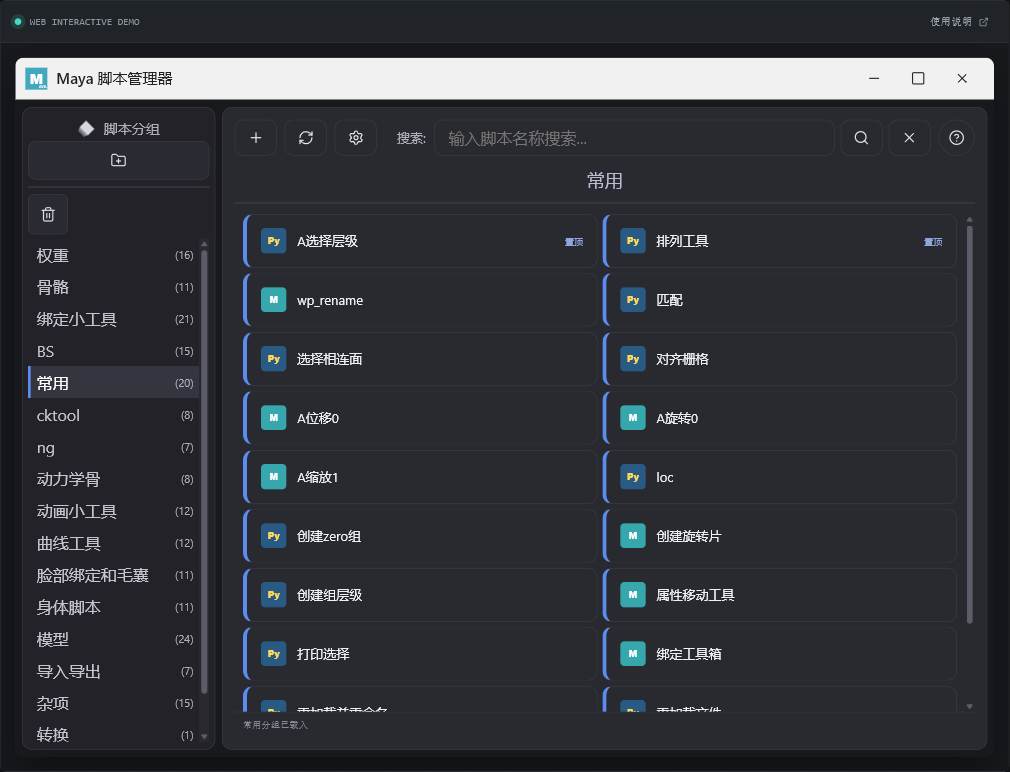
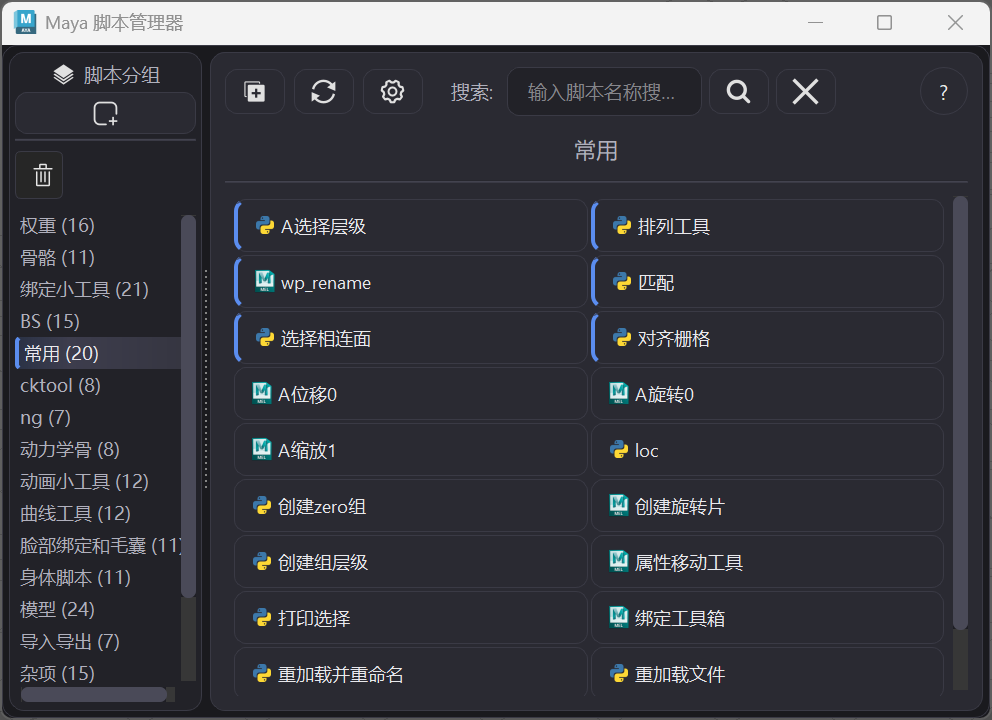
Align site with real Maya interfaces

diff --git a/src/App.css b/src/App.css
@@ -72,7 +72,6 @@
 .spotlight-panel::before { content: ''; position: absolute; z-index: -1; inset: 0; opacity: 0; background: radial-gradient(240px circle at var(--spot-x, 50%) var(--spot-y, 50%), var(--spot-color, rgba(255,255,255,.08)), transparent 72%); transition: opacity .25s ease; pointer-events: none; }
 .spotlight-panel:hover::before { opacity: 1; }
 .active-tool-brief { margin-top: auto; padding-top: 24px; border-top: 1px solid var(--line); }
-.active-tool-brief > img { width: 100%; max-height: 124px; margin-bottom: 16px; object-fit: cover; object-position: top; border: 1px solid #343a40; border-radius: 3px; }
 .active-tool-brief > span { display: inline-flex; color: #7f8b94; font: 11px/1.2 ui-monospace, Consolas, monospace; }
 .active-tool-brief h1 { margin: 9px 0 10px; font-size: 28px; line-height: 1.1; letter-spacing: 0; }
 .active-tool-brief p { margin: 0; max-width: 30ch; color: var(--muted); font-size: 13px; line-height: 1.7; }
@@ -217,27 +216,27 @@ button.outliner-row:hover { background: #30363a; }
 .native-window-controls > svg { padding: 14px; }.native-window-controls span svg, .native-window-controls button svg { width: 15px; }
 .native-window-controls button { cursor: pointer; }.native-window-controls button:hover { background: #dedede; }
 
-.ck-tool-demo { align-items: stretch; justify-content: center; overflow: hidden; background: #191c1f; }
-.ck-combined-window { width: min(488px, 100%); min-height: 0; display: flex; flex-direction: column; overflow: hidden; border: 1px solid #17181a; border-radius: 9px; background: #2b2b2f; box-shadow: 0 18px 42px rgba(0,0,0,.35); }
-.ck-window-body { min-height: 0; flex: 1; display: flex; flex-direction: column; padding: 0 7px 7px; color: #eceef1; background: #2b2b2f; }
-.ck-siri { width: 66px; height: 66px; flex: 0 0 66px; place-self: center; position: relative; margin: 10px auto 7px; overflow: hidden; border: 1px solid #6847ff; border-radius: 50%; background: radial-gradient(circle at 62% 38%, #fff 0 5%, #67edff 8%, #9138e5 26%, #22315c 56%, #0d1020 72%); cursor: pointer; }
-.ck-siri span, .ck-siri i, .ck-siri b { position: absolute; border-radius: 50%; filter: blur(1px); }.ck-siri span { width: 38px; height: 18px; left: 10px; top: 15px; border: 5px solid rgba(91,255,245,.8); transform: rotate(24deg); }.ck-siri i { width: 22px; height: 38px; right: 12px; top: 13px; border: 5px solid rgba(255,111,238,.65); transform: rotate(38deg); }.ck-siri b { width: 18px; height: 18px; left: 22px; bottom: 11px; background: rgba(255,255,255,.75); }
-.ck-siri:hover { filter: brightness(1.12); }.ck-siri:active { transform: scale(.96); }
+.ck-tool-demo { align-items: stretch; justify-content: center; overflow: hidden; background: #171b1e; }
+.ck-combined-window { width: min(488px, 100%); min-height: 0; display: flex; flex-direction: column; overflow: hidden; border: 1px solid #394147; border-radius: 4px; background: #292d30; box-shadow: inset 0 1px rgba(255,255,255,.035), 0 18px 42px rgba(0,0,0,.36); }
+.ck-window-body { min-height: 0; flex: 1; display: flex; flex-direction: column; padding: 0 7px 7px; color: #edf1f3; background: #292d30; }
+.ck-siri { width: 66px; height: 66px; flex: 0 0 66px; place-self: center; position: relative; margin: 10px auto 7px; overflow: hidden; padding: 0; border: 1px solid #4d5960; border-radius: 50%; background: #15191c; box-shadow: 0 6px 18px rgba(0,0,0,.3); cursor: pointer; transition: border-color .2s ease, filter .2s ease, transform .16s ease; }
+.ck-siri-image { width: 100%; height: 100%; display: block; object-fit: cover; }
+.ck-siri:hover { border-color: var(--cyan); filter: brightness(1.08); }.ck-siri:active { transform: scale(.96); }
 .ck-divider { height: 2px; flex: 0 0 2px; border-top: 1px solid #090909; border-bottom: 1px solid #4b4b4d; }
 .ck-double-divider { height: 18px; flex: 0 0 18px; margin: 2px 10px 0; border-top: 2px solid #090909; border-bottom: 1px solid #090909; }
 .ck-fixed-controls { display: grid; gap: 5px; padding: 10px; }
 .ck-control-line { display: grid; grid-template-columns: 80px 105px 1fr 1fr; align-items: center; gap: 6px; font-size: 13px; }
-.ck-width-line { grid-template-columns: 80px 1fr 1.5fr; }.ck-control-line input, .ck-window-body input, .ck-window-body select { min-width: 0; height: 30px; padding: 0 8px; border: 1px solid #17181a; border-radius: 2px; outline: 0; color: #edf0f2; background: #38383d; }
-.ck-control-line input:focus, .ck-window-body input:focus, .ck-window-body select:focus { border-color: #3184db; }
-.ck-window-body button:not(.ck-siri):not(.ck-accordion-toggle):not(.ck-color-preview):not(.ck-color-grid button) { min-width: 0; min-height: 31px; display: inline-flex; align-items: center; justify-content: center; gap: 5px; border: 1px solid #535359; border-radius: 3px; color: #f2f3f4; background: #45454b; cursor: pointer; }
-.ck-window-body button:not(.ck-siri):not(.ck-accordion-toggle):not(.ck-color-preview):not(.ck-color-grid button):hover { background: #515158; }
+.ck-width-line { grid-template-columns: 80px 1fr 1.5fr; }.ck-control-line input, .ck-window-body input, .ck-window-body select { min-width: 0; height: 30px; padding: 0 8px; border: 1px solid #171a1c; border-radius: 2px; outline: 0; color: #edf0f2; background: #353a3e; }
+.ck-control-line input:focus, .ck-window-body input:focus, .ck-window-body select:focus { border-color: var(--cyan); box-shadow: inset 0 0 0 1px rgba(70,215,197,.18); }
+.ck-window-body button:not(.ck-siri):not(.ck-accordion-toggle):not(.ck-color-preview):not(.ck-color-grid button) { min-width: 0; min-height: 31px; display: inline-flex; align-items: center; justify-content: center; gap: 5px; border: 1px solid #4a5258; border-radius: 2px; color: #f2f3f4; background: #3d4348; cursor: pointer; }
+.ck-window-body button:not(.ck-siri):not(.ck-accordion-toggle):not(.ck-color-preview):not(.ck-color-grid button):hover { border-color: #657078; background: #485057; }
 .ck-check { min-height: 25px; display: inline-flex; align-items: center; gap: 7px; font-size: 12px; }.ck-check input { width: 14px; height: 14px; min-height: 0; accent-color: #4c9aff; }
 .ck-reset-row { display: grid; grid-template-columns: repeat(3, 1fr); gap: 6px; }
 .ck-accordion-scroll { min-height: 0; flex: 1; padding: 8px 10px 12px; overflow: auto; scrollbar-color: #5c5c63 #242428; scrollbar-width: thin; }
 .ck-accordion { margin: 0 0 38px; }.ck-accordion.is-open { margin-bottom: 10px; }
-.ck-accordion-toggle { width: 100%; min-height: 38px; display: flex; align-items: center; gap: 3px; padding: 0 10px; border: 0; border-radius: 4px; color: white; background: #3a3a3f; text-align: left; cursor: pointer; }
-.ck-accordion-toggle:hover { background: #414147; }.ck-accordion-toggle svg { width: 13px; transition: transform .16s ease; }.ck-accordion.is-open .ck-accordion-toggle svg { transform: rotate(90deg); }.ck-accordion-toggle strong { font-size: 13px; }
-.ck-accordion-content { display: grid; gap: 7px; padding: 10px 8px 2px; border: 1px solid #414146; border-top: 0; background: #303034; }
+.ck-accordion-toggle { width: 100%; min-height: 38px; display: flex; align-items: center; gap: 3px; padding: 0 10px; border: 1px solid transparent; border-radius: 3px; color: white; background: #383e42; text-align: left; cursor: pointer; }
+.ck-accordion-toggle:hover { border-color: #4b555b; background: #41484d; }.ck-accordion-toggle svg { width: 13px; transition: transform .16s ease; }.ck-accordion.is-open .ck-accordion-toggle { border-color: #4b555b; }.ck-accordion.is-open .ck-accordion-toggle svg { transform: rotate(90deg); }.ck-accordion-toggle strong { font-size: 13px; }
+.ck-accordion-content { display: grid; gap: 7px; padding: 10px 8px 2px; border: 1px solid #41494e; border-top: 0; background: #2e3337; }
 .ck-form-row { min-height: 31px; display: grid; grid-template-columns: 82px minmax(0, 1fr); align-items: center; gap: 7px; font-size: 12px; }
 .ck-color-preview { height: 30px; border: 2px solid #6b6b70; border-radius: 4px; color: #111; font: 10px/1 ui-monospace, monospace; cursor: pointer; }
 .ck-preset-row { align-items: start; }.ck-color-grid { display: grid; grid-template-columns: repeat(8, minmax(18px, 1fr)); gap: 3px; }.ck-color-grid button { aspect-ratio: 1; min-width: 0; padding: 0; border: 1px solid #76767a; cursor: pointer; }.ck-color-grid button.is-active { outline: 2px solid white; outline-offset: 1px; }
@@ -246,18 +245,18 @@ button.outliner-row:hover { background: #30363a; }
 .ck-four-grid { display: grid; grid-template-columns: 1fr 1fr; gap: 7px; }.ck-select-label { grid-template-columns: 90px 1fr; align-items: center; }.ck-number-label { grid-template-columns: 90px 70px; align-items: center; }.ck-check-grid { display: grid; grid-template-columns: 1fr 1fr; gap: 2px 8px; }.ck-tool-button-grid { display: grid; grid-template-columns: repeat(2, minmax(0, 1fr)); gap: 5px; }
 .ck-feedback { min-height: 27px; flex: 0 0 27px; display: flex; align-items: center; padding: 0 11px; overflow: hidden; border-top: 1px solid #17181a; color: #9ca4aa; background: #232327; font: 9px/1 ui-monospace, Consolas, monospace; text-overflow: ellipsis; white-space: nowrap; }
 
-.scripts-box-demo { position: relative; align-items: stretch; overflow: hidden; background: #17191d; }
-.sb-window { width: 100%; min-width: 0; min-height: 590px; height: min(700px, calc(100vh - 105px)); flex: 0 0 auto; display: flex; flex-direction: column; overflow: hidden; border: 1px solid #121318; border-radius: 9px; background: #222228; box-shadow: 0 18px 42px rgba(0,0,0,.35); }
-.sb-shell { min-height: 0; flex: 1; display: grid; grid-template-columns: minmax(150px, 20%) 1fr; gap: 7px; padding: 7px; background: #17191d; }
-.sb-sidebar, .sb-content { min-width: 0; min-height: 0; overflow: hidden; border: 1px solid #3a3a45; border-radius: 10px; background: #222228; }
+.scripts-box-demo { position: relative; align-items: stretch; overflow: hidden; background: #171b1e; }
+.sb-window { width: 100%; min-width: 0; min-height: 590px; height: min(700px, calc(100vh - 105px)); flex: 0 0 auto; display: flex; flex-direction: column; overflow: hidden; border: 1px solid #394147; border-radius: 4px; background: #252a2e; box-shadow: inset 0 1px rgba(255,255,255,.035), 0 18px 42px rgba(0,0,0,.36); }
+.sb-shell { min-height: 0; flex: 1; display: grid; grid-template-columns: minmax(150px, 20%) 1fr; gap: 7px; padding: 7px; background: #181c1f; }
+.sb-sidebar, .sb-content { min-width: 0; min-height: 0; overflow: hidden; border: 1px solid #3b4349; border-radius: 5px; background: #24292d; }
 .sb-sidebar { display: flex; flex-direction: column; padding: 7px 5px; }.sb-sidebar-title { height: 29px; display: flex; align-items: center; justify-content: center; gap: 8px; color: #b0b0bc; }.sb-sidebar-title strong { font-size: 14px; font-weight: 500; }.sb-stack-icon { width: 18px; height: 14px; position: relative; border-radius: 1px; background: #d5d8df; box-shadow: 0 4px 0 -1px #8c929e, 0 8px 0 -2px #626976; transform: rotate(45deg) scale(.65); }
 .sb-add-group { height: 41px; display: grid; place-items: center; border: 1px solid #3a3a45; border-radius: 8px; color: #e8e8ec; background: #2a2a32; cursor: pointer; }.sb-add-group svg { width: 21px; }.sb-side-rule, .sb-content-rule { height: 1px; flex: 0 0 1px; margin: 7px 0; background: #3a3a45; }
 .sb-trash { width: 40px; height: 40px; flex: 0 0 40px; display: grid; place-items: center; margin-bottom: 4px; border: 1px solid #3a3a45; border-radius: 6px; color: #d9dce1; background: #2a2a32; cursor: pointer; }.sb-trash svg { width: 19px; }.sb-trash.is-active { border-color: #5b8def; color: white; background: #343746; }
 .sb-group-list { min-height: 0; display: flex; flex-direction: column; overflow: auto; scrollbar-color: #5d5d69 #292930; scrollbar-width: thin; }.sb-group-list button { min-height: 32px; display: flex; align-items: center; gap: 4px; padding: 0 6px; border: 0; border-left: 3px solid transparent; color: #c3c5d1; background: transparent; text-align: left; cursor: pointer; }.sb-group-list button:hover { background: #2a2a32; }.sb-group-list button.is-active { border-left-color: #5b8def; color: white; background: #353540; }.sb-group-list button span { min-width: 0; overflow: hidden; text-overflow: ellipsis; white-space: nowrap; }.sb-group-list button b { margin-left: auto; color: #aeb0bc; font-size: 11px; font-weight: 400; }
-.sb-content { position: relative; display: flex; flex-direction: column; padding: 12px; background: #292930; }.sb-toolbar { min-width: 0; display: flex; align-items: center; gap: 8px; }.sb-toolbar > button, .sb-search-box button { width: 42px; height: 36px; flex: 0 0 42px; display: grid; place-items: center; padding: 0; border: 1px solid #3a3a45; border-radius: 9px; color: #e5e7ed; background: #292930; cursor: pointer; }.sb-toolbar > button:hover, .sb-search-box button:hover { background: #353540; }.sb-toolbar button svg { width: 20px; }.sb-toolbar > label { margin-left: 12px; color: #b0b0bc; font-size: 13px; }.sb-search-box { min-width: 180px; flex: 1; display: flex; gap: 6px; }.sb-search-box input { min-width: 0; flex: 1; height: 36px; padding: 0 14px; border: 1px solid #3a3a45; border-radius: 9px; outline: 0; color: #e8e8ec; background: #292930; }.sb-search-box input:focus { border-color: #5b8def; }.sb-toolbar .sb-help { width: 36px; flex-basis: 36px; border-radius: 50%; }
+.sb-content { position: relative; display: flex; flex-direction: column; padding: 12px; background: #282d31; }.sb-toolbar { min-width: 0; display: flex; align-items: center; gap: 8px; }.sb-toolbar > button, .sb-search-box button { width: 42px; height: 36px; flex: 0 0 42px; display: grid; place-items: center; padding: 0; border: 1px solid #40484e; border-radius: 5px; color: #e5e7ed; background: #2b3135; cursor: pointer; }.sb-toolbar > button:hover, .sb-search-box button:hover { border-color: #59656c; background: #353c41; }.sb-toolbar button svg { width: 20px; }.sb-toolbar > label { margin-left: 12px; color: #b0b0bc; font-size: 13px; }.sb-search-box { min-width: 180px; flex: 1; display: flex; gap: 6px; }.sb-search-box input { min-width: 0; flex: 1; height: 36px; padding: 0 14px; border: 1px solid #40484e; border-radius: 5px; outline: 0; color: #e8e8ec; background: #24292d; }.sb-search-box input:focus { border-color: #5b8def; box-shadow: inset 0 0 0 1px rgba(91,141,239,.16); }.sb-toolbar .sb-help { width: 36px; flex-basis: 36px; border-radius: 50%; }
 .sb-content h2 { margin: 12px 0 4px; color: #b8bdd0; font-size: 18px; font-weight: 500; text-align: center; letter-spacing: 0; }.sb-content-rule { margin: 7px 0 10px; }
 .sb-script-grid { min-height: 0; align-content: start; flex: 1; display: grid; gap: 5px; overflow: auto; padding: 0 8px 8px; scrollbar-color: #5d5d69 #292930; scrollbar-width: thin; }.sb-script-grid.columns-2 { grid-template-columns: repeat(2, minmax(0, 1fr)); }.sb-script-grid.columns-1 { grid-template-columns: 1fr; }
-.sb-script-button { min-width: 0; height: 54px; display: grid; grid-template-columns: 28px minmax(0, 1fr) auto; align-items: center; gap: 8px; padding: 0 14px; border: 1px solid #3a3a45; border-left: 4px solid #5b8def; border-radius: 10px; color: #f0f1f4; background: #292930; text-align: left; cursor: pointer; }.sb-script-button:hover { background: #33333d; }.sb-script-button.is-selected { outline: 1px solid #81a8ff; background: #38394a; }.sb-script-button > span:nth-child(2) { min-width: 0; overflow: hidden; text-overflow: ellipsis; white-space: nowrap; font-size: 13px; }.sb-script-button i { color: #8ea6dc; font-size: 9px; font-style: normal; }
+.sb-script-button { min-width: 0; height: 54px; display: grid; grid-template-columns: 28px minmax(0, 1fr) auto; align-items: center; gap: 8px; padding: 0 14px; border: 1px solid #3f474d; border-left: 4px solid #5b8def; border-radius: 5px; color: #f0f1f4; background: #292f33; text-align: left; cursor: pointer; }.sb-script-button:hover { border-color: #566169; background: #343b40; }.sb-script-button.is-selected { outline: 1px solid #81a8ff; background: #37404a; }.sb-script-button > span:nth-child(2) { min-width: 0; overflow: hidden; text-overflow: ellipsis; white-space: nowrap; font-size: 13px; }.sb-script-button i { color: #8ea6dc; font-size: 9px; font-style: normal; }
 .sb-file-icon { width: 25px; height: 25px; display: grid; place-items: center; border-radius: 4px; font: 800 9px/1 Arial; }.sb-file-icon.type-py { color: #ffd85b; background: #285a83; }.sb-file-icon.type-mel { color: white; background: #37a7ae; }
 .sb-empty { min-height: 220px; grid-column: 1/-1; display: grid; place-items: center; align-content: center; gap: 7px; color: #848996; text-align: center; }.sb-empty svg { width: 30px; }.sb-empty strong { color: #bfc3cd; font-size: 13px; }.sb-empty span { font-size: 10px; }
 .sb-status { height: 25px; flex: 0 0 25px; display: flex; align-items: center; padding: 0 8px; overflow: hidden; border-top: 1px solid #3a3a45; color: #868c98; font: 9px/1 ui-monospace, Consolas, monospace; text-overflow: ellipsis; white-space: nowrap; }
@@ -272,70 +271,70 @@ button.outliner-row:hover { background: #30363a; }
   padding: 110px clamp(18px, 6vw, 104px) 120px;
   overflow: clip;
   border-top: 1px solid #2b3035;
-  background: #e9edf0;
-  color: #15191d;
+  background: #0b0d0f;
+  color: #e8edf2;
 }
 .guide-scroll-progress { position: absolute; inset: 0 0 auto; height: 3px; background: var(--guide-accent); transform: scaleX(0); transform-origin: left center; will-change: transform; }
 .guide-heading { display: grid; grid-template-columns: minmax(280px, 1.1fr) minmax(260px, .75fr) auto; align-items: end; gap: clamp(24px, 4vw, 70px); max-width: 1380px; margin: 0 auto 54px; }
-.guide-heading > div > span, .guide-tool-title > span, .guide-chapter-copy > span { color: #69747d; font: 700 10px/1.2 ui-monospace, Consolas, monospace; }
+.guide-heading > div > span, .guide-tool-title > span, .guide-chapter-copy > span { color: #77838b; font: 700 10px/1.2 ui-monospace, Consolas, monospace; }
 .guide-heading h2 { max-width: 13ch; margin: 12px 0 0; font-size: 44px; line-height: 1.06; letter-spacing: 0; }
-.guide-heading > p { margin: 0; color: #56616a; font-size: 13px; line-height: 1.8; }
-.guide-heading > a { height: 40px; display: inline-flex; align-items: center; gap: 8px; padding: 0 13px; border: 1px solid #9fa9b1; border-radius: 4px; background: transparent; font-size: 11px; font-weight: 700; text-decoration: none; white-space: nowrap; transition: color .2s ease, border-color .2s ease, background .2s ease; }
-.guide-heading > a:hover { color: #e9edf0; border-color: #20262b; background: #20262b; }
+.guide-heading > p { margin: 0; color: #89949c; font-size: 13px; line-height: 1.8; }
+.guide-heading > a { height: 40px; display: inline-flex; align-items: center; gap: 8px; padding: 0 13px; border: 1px solid #465159; border-radius: 4px; color: #cbd3d8; background: transparent; font-size: 11px; font-weight: 700; text-decoration: none; white-space: nowrap; transition: color .2s ease, border-color .2s ease, background .2s ease; }
+.guide-heading > a:hover { color: #0b0d0f; border-color: var(--cyan); background: var(--cyan); }
 
-.guide-workspace { max-width: 1380px; margin: auto; border: 1px solid #aeb7be; background: #f5f7f8; box-shadow: 0 28px 70px rgba(24,31,36,.12); }
-.guide-tool-tabs { display: grid; grid-template-columns: repeat(3, 1fr); border-bottom: 1px solid #aeb7be; background: #dfe4e7; }
-.guide-tool-tab { --tab-accent: var(--cyan); min-width: 0; min-height: 78px; display: grid; grid-template-columns: 30px 1fr auto 18px; align-items: center; gap: 12px; padding: 12px 18px; border: 0; border-right: 1px solid #b8c0c6; background: transparent; color: #66717a; text-align: left; cursor: pointer; transition: color .2s ease, background .2s ease; }
+.guide-workspace { max-width: 1380px; margin: auto; border: 1px solid #30383e; background: #15191c; box-shadow: 0 28px 70px rgba(0,0,0,.28); }
+.guide-tool-tabs { display: grid; grid-template-columns: repeat(3, 1fr); border-bottom: 1px solid #30383e; background: #111518; }
+.guide-tool-tab { --tab-accent: var(--cyan); min-width: 0; min-height: 78px; display: grid; grid-template-columns: 30px 1fr auto 18px; align-items: center; gap: 12px; padding: 12px 18px; border: 0; border-right: 1px solid #30383e; background: transparent; color: #7d8991; text-align: left; cursor: pointer; transition: color .2s ease, background .2s ease; }
 .guide-tool-tab:last-child { border-right: 0; }
-.guide-tool-tab:hover { background: rgba(255,255,255,.55); }
-.guide-tool-tab.is-active { color: #171c20; background: #f5f7f8; box-shadow: inset 0 3px var(--tab-accent); }
-.guide-tool-tab > span { color: #7d878f; font: 10px/1 ui-monospace, Consolas, monospace; }
+.guide-tool-tab:hover { color: #dce3e7; background: #1b2024; }
+.guide-tool-tab.is-active { color: #f0f4f6; background: #1b2024; box-shadow: inset 0 3px var(--tab-accent); }
+.guide-tool-tab > span { color: #67737b; font: 10px/1 ui-monospace, Consolas, monospace; }
 .guide-tool-tab strong { font-size: 14px; }
-.guide-tool-tab small { color: #7c878f; font-size: 9px; }
+.guide-tool-tab small { color: #6f7b83; font-size: 9px; }
 .guide-tool-tab svg { justify-self: end; transition: transform .2s ease; }
 .guide-tool-tab:hover svg, .guide-tool-tab.is-active svg { transform: translateX(3px); }
 
-.guide-tool-overview { min-height: 176px; display: grid; grid-template-columns: 1fr minmax(260px, .55fr); align-items: end; gap: 40px; padding: 34px 40px; border-bottom: 1px solid #c2c9ce; }
+.guide-tool-overview { min-height: 176px; display: grid; grid-template-columns: 1fr minmax(260px, .55fr); align-items: end; gap: 40px; padding: 34px 40px; border-bottom: 1px solid #30383e; }
 .guide-tool-title h3 { margin: 7px 0 8px; font-size: 30px; line-height: 1.1; }
-.guide-tool-title p { max-width: 62ch; margin: 0; color: #626d75; font-size: 12px; line-height: 1.7; }
+.guide-tool-title p { max-width: 62ch; margin: 0; color: #89949c; font-size: 12px; line-height: 1.7; }
 .guide-source { min-width: 0; display: grid; grid-template-columns: 28px 1fr; gap: 2px 10px; align-items: center; padding-left: 22px; border-left: 2px solid var(--guide-accent); }
-.guide-source > svg { grid-row: 1/3; width: 22px; height: 22px; color: #515b63; }
-.guide-source > span { color: #7a858d; font-size: 9px; }
-.guide-source code { overflow: hidden; color: #343b40; font-size: 10px; text-overflow: ellipsis; white-space: nowrap; }
+.guide-source > svg { grid-row: 1/3; width: 22px; height: 22px; color: #9aa5ac; }
+.guide-source > span { color: #758189; font-size: 9px; }
+.guide-source code { overflow: hidden; color: #c7d0d5; font-size: 10px; text-overflow: ellipsis; white-space: nowrap; }
 
 .guide-body { min-height: 610px; display: grid; grid-template-columns: minmax(260px, 340px) minmax(0, 1fr); }
-.guide-chapter-nav { border-right: 1px solid #c2c9ce; background: #eaedef; }
-.guide-chapter-nav button { position: relative; width: 100%; min-height: 82px; display: grid; grid-template-columns: 28px 1fr; align-items: center; gap: 12px; padding: 14px 18px; overflow: hidden; border: 0; border-bottom: 1px solid #cbd1d5; background: transparent; color: #59646c; text-align: left; cursor: pointer; }
+.guide-chapter-nav { border-right: 1px solid #30383e; background: #111518; }
+.guide-chapter-nav button { position: relative; width: 100%; min-height: 82px; display: grid; grid-template-columns: 28px 1fr; align-items: center; gap: 12px; padding: 14px 18px; overflow: hidden; border: 0; border-bottom: 1px solid #2b3338; background: transparent; color: #7e8a92; text-align: left; cursor: pointer; }
 .guide-chapter-nav button::before { content: ''; position: absolute; inset: 0 auto 0 0; width: 3px; background: var(--guide-accent); transform: scaleY(0); transition: transform .25s ease; }
-.guide-chapter-nav button:hover { background: rgba(255,255,255,.5); }
-.guide-chapter-nav button.is-active { color: #171c20; background: #f5f7f8; }
+.guide-chapter-nav button:hover { color: #d9e0e4; background: #181d21; }
+.guide-chapter-nav button.is-active { color: #edf2f4; background: #1b2024; }
 .guide-chapter-nav button.is-active::before { transform: scaleY(1); }
-.guide-chapter-nav button > span { color: #89939a; font: 9px/1 ui-monospace, Consolas, monospace; }
+.guide-chapter-nav button > span { color: #69757d; font: 9px/1 ui-monospace, Consolas, monospace; }
 .guide-chapter-nav button > div { min-width: 0; display: grid; gap: 5px; }
 .guide-chapter-nav strong { font-size: 12px; }
-.guide-chapter-nav small { overflow: hidden; color: #778188; font-size: 9px; line-height: 1.35; text-overflow: ellipsis; white-space: nowrap; }
+.guide-chapter-nav small { overflow: hidden; color: #6f7b83; font-size: 9px; line-height: 1.35; text-overflow: ellipsis; white-space: nowrap; }
 
-.guide-chapter-panel { min-width: 0; display: flex; flex-direction: column; padding: clamp(30px, 5vw, 64px); background: #f8f9fa; }
+.guide-chapter-panel { min-width: 0; display: flex; flex-direction: column; padding: clamp(30px, 5vw, 64px); background: #121619; }
 .guide-chapter-copy h3 { margin: 8px 0 8px; font-size: 32px; line-height: 1.1; }
-.guide-chapter-copy p { margin: 0; color: #68737b; font-size: 12px; }
+.guide-chapter-copy p { margin: 0; color: #859098; font-size: 12px; }
 .guide-steps { position: relative; display: grid; gap: 0; margin: 34px 0 0; padding: 0; list-style: none; }
-.guide-steps::before { content: ''; position: absolute; inset: 18px auto 18px 17px; width: 1px; background: #b9c2c8; }
+.guide-steps::before { content: ''; position: absolute; inset: 18px auto 18px 17px; width: 1px; background: #3a444a; }
 .guide-step { position: relative; min-height: 60px; display: grid; grid-template-columns: 36px 1fr; align-items: start; gap: 17px; }
-.guide-step > span { z-index: 1; width: 36px; height: 36px; display: grid; place-items: center; border: 1px solid #8f9aa2; border-radius: 50%; color: #1c2226; background: #f8f9fa; font: 700 9px/1 ui-monospace, Consolas, monospace; }
-.guide-step p { margin: 6px 0 18px; color: #343b40; font-size: 13px; line-height: 1.55; }
-.guide-result { display: grid; grid-template-columns: 36px 42px 36px minmax(0, 1fr); align-items: center; gap: 10px; margin-top: 8px; padding: 20px; border-top: 1px solid #b9c2c8; border-bottom: 1px solid #b9c2c8; }
-.guide-result-node { width: 36px; height: 36px; display: grid; place-items: center; border: 1px solid #849097; border-radius: 4px; color: #1e2428; background: #e4e8ea; }
+.guide-step > span { z-index: 1; width: 36px; height: 36px; display: grid; place-items: center; border: 1px solid #465159; border-radius: 50%; color: #d8e0e4; background: #171c20; font: 700 9px/1 ui-monospace, Consolas, monospace; }
+.guide-step p { margin: 6px 0 18px; color: #c1cbd0; font-size: 13px; line-height: 1.55; }
+.guide-result { display: grid; grid-template-columns: 36px 42px 36px minmax(0, 1fr); align-items: center; gap: 10px; margin-top: 8px; padding: 20px; border-top: 1px solid #30383e; border-bottom: 1px solid #30383e; }
+.guide-result-node { width: 36px; height: 36px; display: grid; place-items: center; border: 1px solid #465159; border-radius: 4px; color: #dbe2e6; background: #1b2024; }
 .guide-result-node:last-of-type { color: #101515; border-color: var(--guide-accent); background: var(--guide-accent); }
-.guide-result-line { height: 1px; background: #8d979e; }
+.guide-result-line { height: 1px; background: #465159; }
 .guide-result div { margin-left: 5px; }
-.guide-result small { color: #7b858c; font: 700 9px/1 ui-monospace, Consolas, monospace; }
-.guide-result p { margin: 5px 0 0; color: #282f34; font-size: 12px; line-height: 1.55; }
-.guide-note { display: grid; grid-template-columns: 54px 1fr; gap: 12px; margin-top: 18px; padding: 14px 16px; border-left: 3px solid var(--guide-accent); background: #edf0f2; }
-.guide-note strong { font-size: 11px; }.guide-note p { margin: 0; color: #5f6971; font-size: 11px; line-height: 1.6; }
+.guide-result small { color: #78848c; font: 700 9px/1 ui-monospace, Consolas, monospace; }
+.guide-result p { margin: 5px 0 0; color: #c5ced3; font-size: 12px; line-height: 1.55; }
+.guide-note { display: grid; grid-template-columns: 54px 1fr; gap: 12px; margin-top: 18px; padding: 14px 16px; border-left: 3px solid var(--guide-accent); background: #1b2024; }
+.guide-note strong { font-size: 11px; }.guide-note p { margin: 0; color: #929da4; font-size: 11px; line-height: 1.6; }
 .guide-pager { min-height: 42px; display: flex; align-items: end; justify-content: space-between; gap: 20px; margin-top: auto; padding-top: 28px; }
 .guide-pager > span { color: #89939a; font: 10px/1 ui-monospace, Consolas, monospace; }
-.guide-pager button { height: 36px; display: inline-flex; align-items: center; gap: 8px; padding: 0 12px; border: 1px solid #929da4; border-radius: 3px; background: transparent; color: #252b30; font-size: 10px; font-weight: 700; cursor: pointer; }
-.guide-pager button:not(:disabled):hover { color: #f6f8f9; border-color: #20262b; background: #20262b; }
+.guide-pager button { height: 36px; display: inline-flex; align-items: center; gap: 8px; padding: 0 12px; border: 1px solid #465159; border-radius: 3px; background: transparent; color: #cbd3d8; font-size: 10px; font-weight: 700; cursor: pointer; }
+.guide-pager button:not(:disabled):hover { color: #0b0d0f; border-color: var(--cyan); background: var(--cyan); }
 .guide-pager button:disabled { opacity: .35; cursor: default; }
 
 .workflow-section { display: grid; grid-template-columns: minmax(270px, .75fr) minmax(0, 1.25fr); gap: clamp(40px, 8vw, 130px); padding: 110px clamp(18px, 7vw, 120px); border-top: 1px solid #2b3035; background: #e9edf0; color: #15191d; }
@@ -387,7 +386,7 @@ footer > span { color: #c4ccd2; font-weight: 800; }footer p { margin: 0; }footer
   .maya-workspace { grid-template-columns: 1fr 1fr; grid-template-rows: minmax(330px, auto) 300px; }.maya-tool-panel { grid-column: 1/-1; grid-row: 1; border-right: 0; border-bottom: 1px solid #151719; }.maya-viewport { grid-column: 1; grid-row: 2; }.maya-outliner { grid-column: 2; grid-row: 2; }.maya-log { flex-wrap: wrap; }
   .tool-heading { margin-top: 2px; }.control-group { padding: 8px; }
   .workflow-section, .downloads-section { padding: 65px 18px; }.workflow-intro h2, .downloads-header h2 { font-size: 34px; }.workflow-step { grid-template-columns: 28px 38px 1fr; gap: 12px; }.workflow-step > svg { width: 36px; height: 36px; padding: 8px; }
-  .usage-guides { padding: 65px 12px; }.guide-heading { display: flex; align-items: start; flex-direction: column; margin-bottom: 34px; }.guide-heading h2 { font-size: 34px; }.guide-heading > p { max-width: 58ch; }.guide-tool-tabs { grid-template-columns: 1fr; }.guide-tool-tab { min-height: 58px; border-right: 0; border-bottom: 1px solid #b8c0c6; }.guide-tool-tab:last-child { border-bottom: 0; }.guide-tool-overview { min-height: 0; padding: 26px 22px; }.guide-body { min-height: 0; grid-template-columns: 1fr; }.guide-chapter-nav { display: flex; overflow-x: auto; border-right: 0; border-bottom: 1px solid #c2c9ce; scrollbar-width: thin; }.guide-chapter-nav button { min-width: 185px; min-height: 70px; border-right: 1px solid #cbd1d5; border-bottom: 0; }.guide-chapter-nav button::before { inset: auto 0 0; width: auto; height: 3px; transform: scaleX(0); }.guide-chapter-nav button.is-active::before { transform: scaleX(1); }.guide-chapter-panel { min-height: 580px; padding: 28px 20px; }.guide-chapter-copy h3 { font-size: 27px; }.guide-result { grid-template-columns: 32px 24px 32px minmax(0, 1fr); gap: 7px; padding-inline: 8px; }.guide-result-node { width: 32px; height: 32px; }
+  .usage-guides { padding: 65px 12px; }.guide-heading { display: flex; align-items: start; flex-direction: column; margin-bottom: 34px; }.guide-heading h2 { font-size: 34px; }.guide-heading > p { max-width: 58ch; }.guide-tool-tabs { grid-template-columns: 1fr; }.guide-tool-tab { min-height: 58px; border-right: 0; border-bottom: 1px solid #30383e; }.guide-tool-tab:last-child { border-bottom: 0; }.guide-tool-overview { min-height: 0; padding: 26px 22px; }.guide-body { min-height: 0; grid-template-columns: 1fr; }.guide-chapter-nav { display: flex; overflow-x: auto; border-right: 0; border-bottom: 1px solid #30383e; scrollbar-width: thin; }.guide-chapter-nav button { min-width: 185px; min-height: 70px; border-right: 1px solid #2b3338; border-bottom: 0; }.guide-chapter-nav button::before { inset: auto 0 0; width: auto; height: 3px; transform: scaleX(0); }.guide-chapter-nav button.is-active::before { transform: scaleX(1); }.guide-chapter-panel { min-height: 580px; padding: 28px 20px; }.guide-chapter-copy h3 { font-size: 27px; }.guide-result { grid-template-columns: 32px 24px 32px minmax(0, 1fr); gap: 7px; padding-inline: 8px; }.guide-result-node { width: 32px; height: 32px; }
   .downloads-header { align-items: start; flex-direction: column; }.download-row { grid-template-columns: 42px 1fr; gap: 12px; }.download-row > a { grid-column: 1/-1; }.download-icon { width: 38px; height: 38px; }
   footer { grid-template-columns: 1fr auto; }footer p { display: none; }
   .sb-shell { grid-template-columns: 130px minmax(0, 1fr); }
@@ -463,10 +462,10 @@ footer > span { color: #c4ccd2; font-weight: 800; }footer p { margin: 0; }footer
 .hero-orbit { position: absolute; inset: 8% 10% 4% 7%; border: 1px solid rgba(124,141,151,.18); border-radius: 50%; transform: translate3d(var(--pointer-far-x),var(--pointer-far-y),0) rotate(-17deg); }
 .hero-frame { position: absolute; overflow: hidden; margin: 0; border: 1px solid rgba(171,186,196,.28); background: #171b1e; box-shadow: 0 30px 70px rgba(0,0,0,.45); }
 .hero-frame::after { content: ''; position: absolute; inset: 0; box-shadow: inset 0 0 0 1px rgba(255,255,255,.025); pointer-events: none; }
-.hero-frame img { width: 100%; height: 100%; display: block; object-fit: cover; object-position: top; }
-.hero-frame-rig { z-index: 3; width: 72%; height: 64%; left: 15%; top: 19%; transform: translate3d(var(--pointer-near-x),var(--pointer-near-y),0) rotate(-1.3deg); }
-.hero-frame-ck { z-index: 2; width: 33%; height: 60%; left: 2%; top: 4%; transform: translate3d(var(--pointer-mid-x),var(--pointer-mid-y),0) rotate(-5deg); }
-.hero-frame-scripts { z-index: 1; width: 58%; height: 45%; right: -1%; bottom: 2%; transform: translate3d(var(--pointer-far-x),var(--pointer-far-y),0) rotate(4deg); }
+.hero-frame img { width: 100%; height: 100%; display: block; object-fit: contain; object-position: center; }
+.hero-frame-rig { z-index: 3; width: 38%; height: 62%; left: 34%; top: 18%; transform: translate3d(var(--pointer-near-x),var(--pointer-near-y),0) rotate(-1.3deg); }
+.hero-frame-ck { z-index: 2; width: 31%; height: 72%; left: 1%; top: 2%; transform: translate3d(var(--pointer-mid-x),var(--pointer-mid-y),0) rotate(-5deg); }
+.hero-frame-scripts { z-index: 1; width: 60%; height: 46%; right: -1%; bottom: 2%; transform: translate3d(var(--pointer-far-x),var(--pointer-far-y),0) rotate(4deg); }
 .hero-index { position: absolute; z-index: 5; right: 3%; top: 5%; color: rgba(225,232,236,.26); font: 700 clamp(46px, 6vw, 90px)/1 ui-monospace, monospace; letter-spacing: -.08em; transform: translate3d(var(--pointer-near-x),var(--pointer-near-y),0); }
 .hero-direction { position: absolute; z-index: 5; right: 7%; bottom: 10%; width: 32px; height: 32px; color: var(--cyan); }
 .hero-edge-label { position: absolute; right: 22px; bottom: 24px; margin: 0; color: #515a60; font: 8px/1 ui-monospace, Consolas, monospace; writing-mode: vertical-rl; letter-spacing: .15em; }
@@ -483,9 +482,11 @@ footer > span { color: #c4ccd2; font-weight: 800; }footer p { margin: 0; }footer
 .exhibition-work.is-reversed { grid-template-columns: 84px minmax(300px, .65fr) minmax(0, 1.35fr); }.exhibition-work.is-reversed .work-visual { grid-column: 3; }.exhibition-work.is-reversed .work-copy { grid-column: 2; grid-row: 1; }
 .work-number { position: relative; z-index: 2; align-self: start; margin-top: 18px; color: #758189; font: 11px/1 ui-monospace, Consolas, monospace; }
 .work-number::before { content: ''; position: absolute; width: 7px; height: 7px; left: 38px; top: 1px; border-radius: 50%; background: var(--cyan); box-shadow: 0 0 0 6px #0e1113; }
-.work-visual { position: relative; display: block; min-height: 520px; overflow: hidden; border: 1px solid #343b40; background: #181c1f; text-decoration: none; clip-path: inset(0); }
+.work-visual { position: relative; display: block; min-height: 620px; overflow: hidden; border: 1px solid #343b40; background: radial-gradient(circle at 50% 45%, #23292d, #131719 72%); text-decoration: none; clip-path: inset(0); }
 .work-visual::after { content: ''; position: absolute; inset: 0; background: linear-gradient(180deg, transparent 68%, rgba(8,10,11,.76)); pointer-events: none; }
-.work-visual img { width: 100%; height: 100%; position: absolute; inset: 0; object-fit: cover; object-position: top; transition: transform .8s cubic-bezier(.2,.8,.2,1), filter .5s ease; }
+.work-visual img { width: 100%; height: 100%; position: absolute; inset: 0; box-sizing: border-box; padding: clamp(18px, 3vw, 44px); object-fit: contain; object-position: center; transition: transform .8s cubic-bezier(.2,.8,.2,1), filter .5s ease; }
+.tool-ck-tool .work-visual { min-height: 720px; }
+.tool-scripts-box .work-visual { min-height: 540px; }
 .work-visual > span { position: absolute; z-index: 2; right: 22px; bottom: 20px; display: inline-flex; align-items: center; gap: 10px; color: #d9e0e4; font: 9px/1 ui-monospace, Consolas, monospace; letter-spacing: .08em; }
 .work-visual:hover img { transform: scale(1.025); filter: brightness(1.08); }.work-visual:hover > span svg { transform: translate(3px,-3px); }
 .work-copy > p { margin: 0 0 16px; color: var(--cyan); font: 9px/1 ui-monospace, Consolas, monospace; letter-spacing: .12em; }

diff --git a/src/components/ToolStudio.tsx b/src/components/ToolStudio.tsx
@@ -70,7 +70,7 @@ export function ToolStudio() {
         const Icon = toolIcons[tool.id]
         return <button type="button" key={tool.id} className={tool.id === activeId ? 'is-active' : ''} aria-pressed={tool.id === activeId} onClick={() => selectTool(tool.id)} onPointerUp={(event) => event.currentTarget.blur()} style={{ '--item-accent': tool.accent } as React.CSSProperties}><span className="tool-index">0{index + 1}</span><Icon /><span><b>{tool.shortName}</b><small>{tool.category}</small></span></button>
       })}</nav>
-      <SpotlightPanel className="active-tool-brief" color={`${activeTool.accent}20`}>{activeTool.screenshot ? <img src={activeTool.screenshot} alt={`${activeTool.name} 在 Maya 中的真实界面`} /> : null}<span>{activeTool.version}</span><h1>{activeTool.name}</h1><p>{activeTool.summary}</p><div className="compat-line"><span>{activeTool.mayaVersions}</span><span>Windows</span></div><a href="#downloads" className="sidebar-download"><Download />获取工具</a></SpotlightPanel>
+      <SpotlightPanel className="active-tool-brief" color={`${activeTool.accent}20`}><span>{activeTool.version}</span><h1>{activeTool.name}</h1><p>{activeTool.summary}</p><div className="compat-line"><span>{activeTool.mayaVersions}</span><span>{activeTool.platforms}</span></div><a href="#downloads" className="sidebar-download"><Download />获取工具</a></SpotlightPanel>
     </aside>
     <div className="studio-stage" style={{ '--active-accent': activeTool.accent } as React.CSSProperties}>
       <div className="stage-bar"><span><i /> WEB INTERACTIVE DEMO</span><div><button type="button" onClick={() => document.getElementById('guide')?.scrollIntoView({ behavior: 'smooth' })}>使用说明 <ExternalLink /></button></div></div>

diff --git a/src/data/tools.ts b/src/data/tools.ts
@@ -8,7 +8,8 @@ export const tools: ToolDefinition[] = [
     summary: '把关节链转换成可控、可读、可撤销的 FK 控制器层级。',
     category: '绑定 / FK',
     version: '1.9',
-    mayaVersions: 'Maya 2021-2026',
+    mayaVersions: 'Maya 2022+',
+    platforms: 'Windows.Mac',
     accent: '#46d7c5',
     downloadFile: 'https://github.com/ckkl13/ck-maya-lab/releases/download/maya-tools-2026.07/ck-rig-box.zip',
     features: ['四种层级模式', 'FK 复制链', '多类型约束', '次级控制器'],
@@ -21,8 +22,8 @@ export const tools: ToolDefinition[] = [
     category: '绑定 / 综合',
     version: '1.2',
     mayaVersions: 'Maya 2022+',
+    platforms: 'Windows.Mac',
     accent: '#ff725e',
-    screenshot: './media/exhibition/ck-tool.png',
     downloadFile: 'https://github.com/ckkl13/ck-maya-lab/releases/download/maya-tools-2026.07/ck-tool.zip',
     features: ['控制器形状库', '颜色与线宽', '关节控制器生成', 'Tag 工作流'],
   },
@@ -33,7 +34,8 @@ export const tools: ToolDefinition[] = [
     summary: '在 Maya 内组织、搜索、编辑和安全管理 Python/MEL 脚本。',
     category: '效率 / 管理',
     version: '1.0',
-    mayaVersions: 'Maya 2021-2026',
+    mayaVersions: 'Maya 2022+',
+    platforms: 'Windows.Mac',
     accent: '#f2c94c',
     downloadFile: 'https://github.com/ckkl13/ck-maya-lab/releases/download/maya-tools-2026.07/scripts-box.zip',
     features: ['分组与搜索', '拖放排序', '回收站', '脚本编辑器'],

diff --git a/src/components/ToolExhibition.tsx b/src/components/ToolExhibition.tsx
@@ -48,7 +48,7 @@ export function ToolExhibition() {
       </header>
       <div className="exhibition-works">
         {tools.map((tool, index) => (
-          <article className={`exhibition-work ${index % 2 ? 'is-reversed' : ''}`} key={tool.id}>
+          <article className={`exhibition-work tool-${tool.id} ${index % 2 ? 'is-reversed' : ''}`} key={tool.id}>
             <span className="work-number">0{index + 1}</span>
             <a className="work-visual" href={`#${tool.id}`} aria-label={`打开 ${tool.name} 交互演示`} onClick={(event) => openInStudio(tool.id, event)}>
               <img src={artwork[tool.id]} alt={`${tool.name} Maya 工具界面`} loading="lazy" />
@@ -59,7 +59,7 @@ export function ToolExhibition() {
               <h3>{tool.name}</h3>
               <strong>{tool.summary}</strong>
               <ul>{tool.features.map((feature) => <li key={feature}>{feature}</li>)}</ul>
-              <div className="work-meta"><span>{tool.mayaVersions}</span><span>WINDOWS</span></div>
+              <div className="work-meta"><span>{tool.mayaVersions}</span><span>{tool.platforms}</span></div>
               <div className="work-actions">
                 <a href={`#${tool.id}`} onClick={(event) => openInStudio(tool.id, event)}>查看界面<ArrowUpRight /></a>
                 <a href={tool.downloadFile} download>下载 ZIP<ArrowDownToLine /></a>

diff --git a/src/components/HeroExhibition.tsx b/src/components/HeroExhibition.tsx
@@ -1,6 +1,7 @@
 import { useRef } from 'react'
 import { ArrowDown, MoveDownRight } from 'lucide-react'
 import { gsap, useGSAP } from '../animation/gsap'
+import { tools } from '../data/tools'
 import { usePointerField } from '../hooks/usePointerField'
 
 const frames = [
@@ -48,7 +49,7 @@ export function HeroExhibition() {
         </h1>
         <div className="hero-summary">
           <p>把 Maya 绑定与脚本工具当作数字作品展示。进入真实界面，理解每一个控件，再下载到自己的工作流。</p>
-          <div><span>03 件工具</span><span>Maya 2021-2026</span><span>Windows</span></div>
+          <div><span>03 件工具</span><span>{tools[0].mayaVersions}</span><span>{tools[0].platforms}</span></div>
           <a href="#works">进入展览<ArrowDown /></a>
         </div>
       </div>

diff --git a/src/components/DownloadsSection.tsx b/src/components/DownloadsSection.tsx
@@ -15,7 +15,7 @@ export function DownloadsSection() {
           <article className="download-row" key={tool.id}>
             <span>0{index + 1}</span>
             <div className="download-main"><small>{tool.category} · v{tool.version}</small><h3>{tool.name}</h3></div>
-            <p>{tool.mayaVersions}<br />{tool.features.join(' · ')}</p>
+            <p>{tool.mayaVersions} · {tool.platforms}<br />{tool.features.join(' · ')}</p>
             <a href={tool.downloadFile} download><Download />下载 ZIP</a>
           </article>
         ))}

diff --git a/src/demos/CkToolDemo.tsx b/src/demos/CkToolDemo.tsx
@@ -84,7 +84,7 @@ export default function CkToolDemo() {
 
         <div className="ck-window-body">
           <button type="button" className="ck-siri" title="重置界面" onClick={reset}>
-            <span /><i /><b />
+            <img className="ck-siri-image" src="./media/ck-tool-siri.gif" alt="" />
           </button>
           <div className="ck-divider" />
 

diff --git a/src/types/tools.ts b/src/types/tools.ts
@@ -8,8 +8,8 @@ export interface ToolDefinition {
   category: string
   version: string
   mayaVersions: string
+  platforms: string
   accent: string
-  screenshot?: string
   downloadFile: string
   features: string[]
 }
